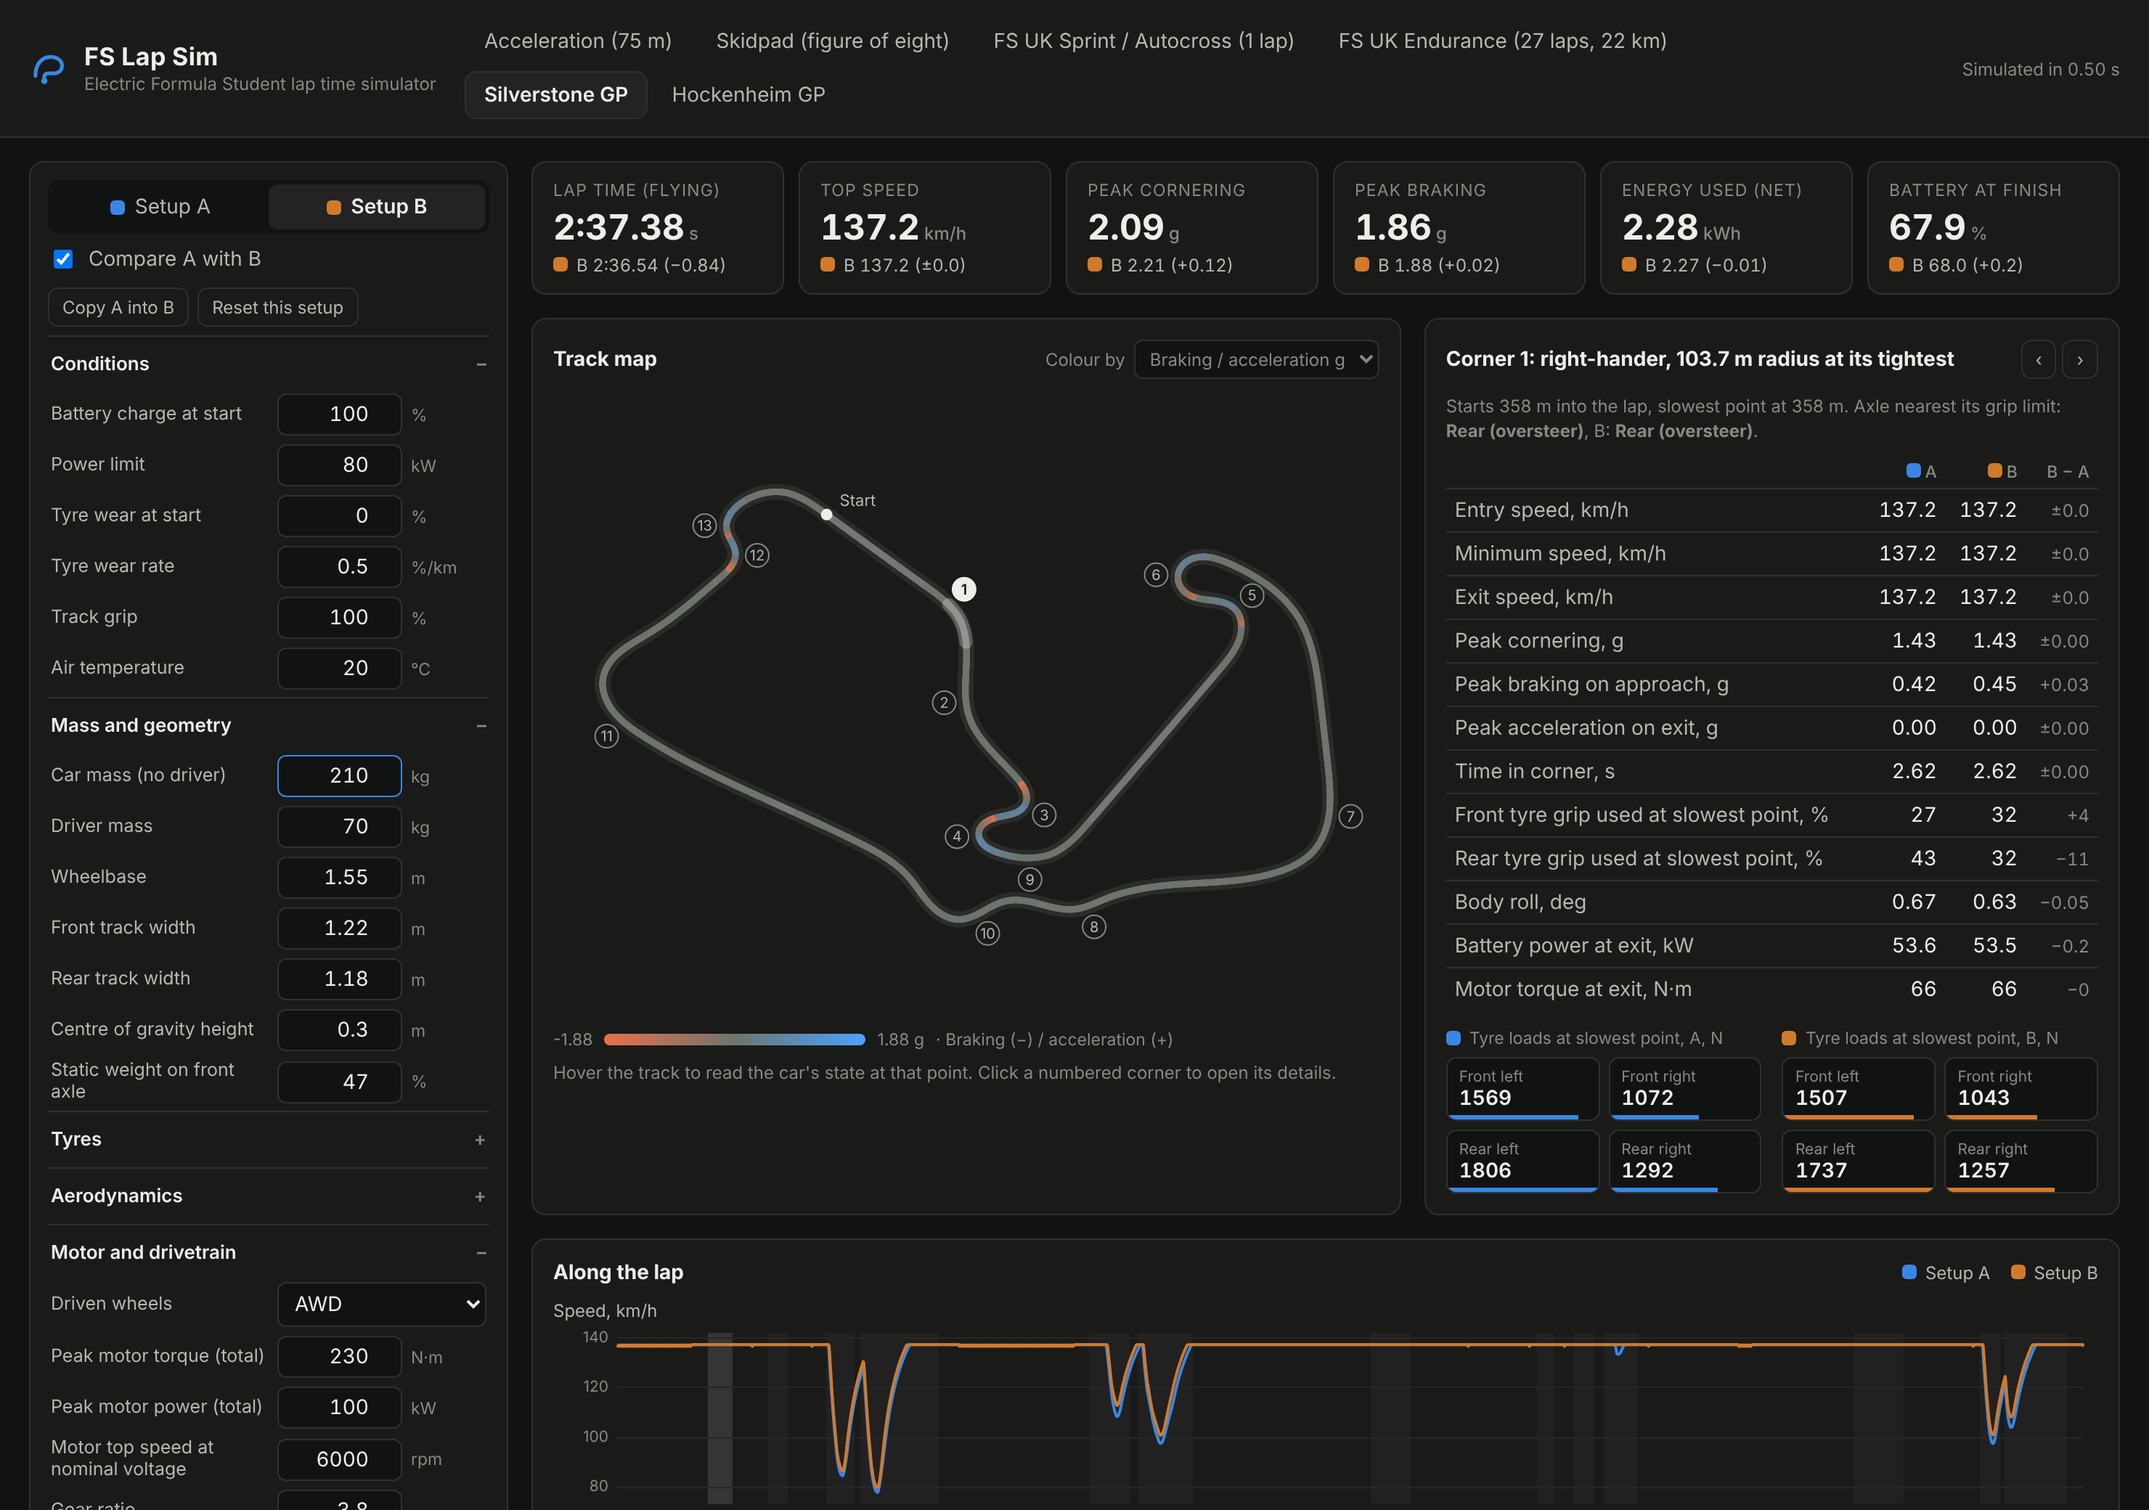
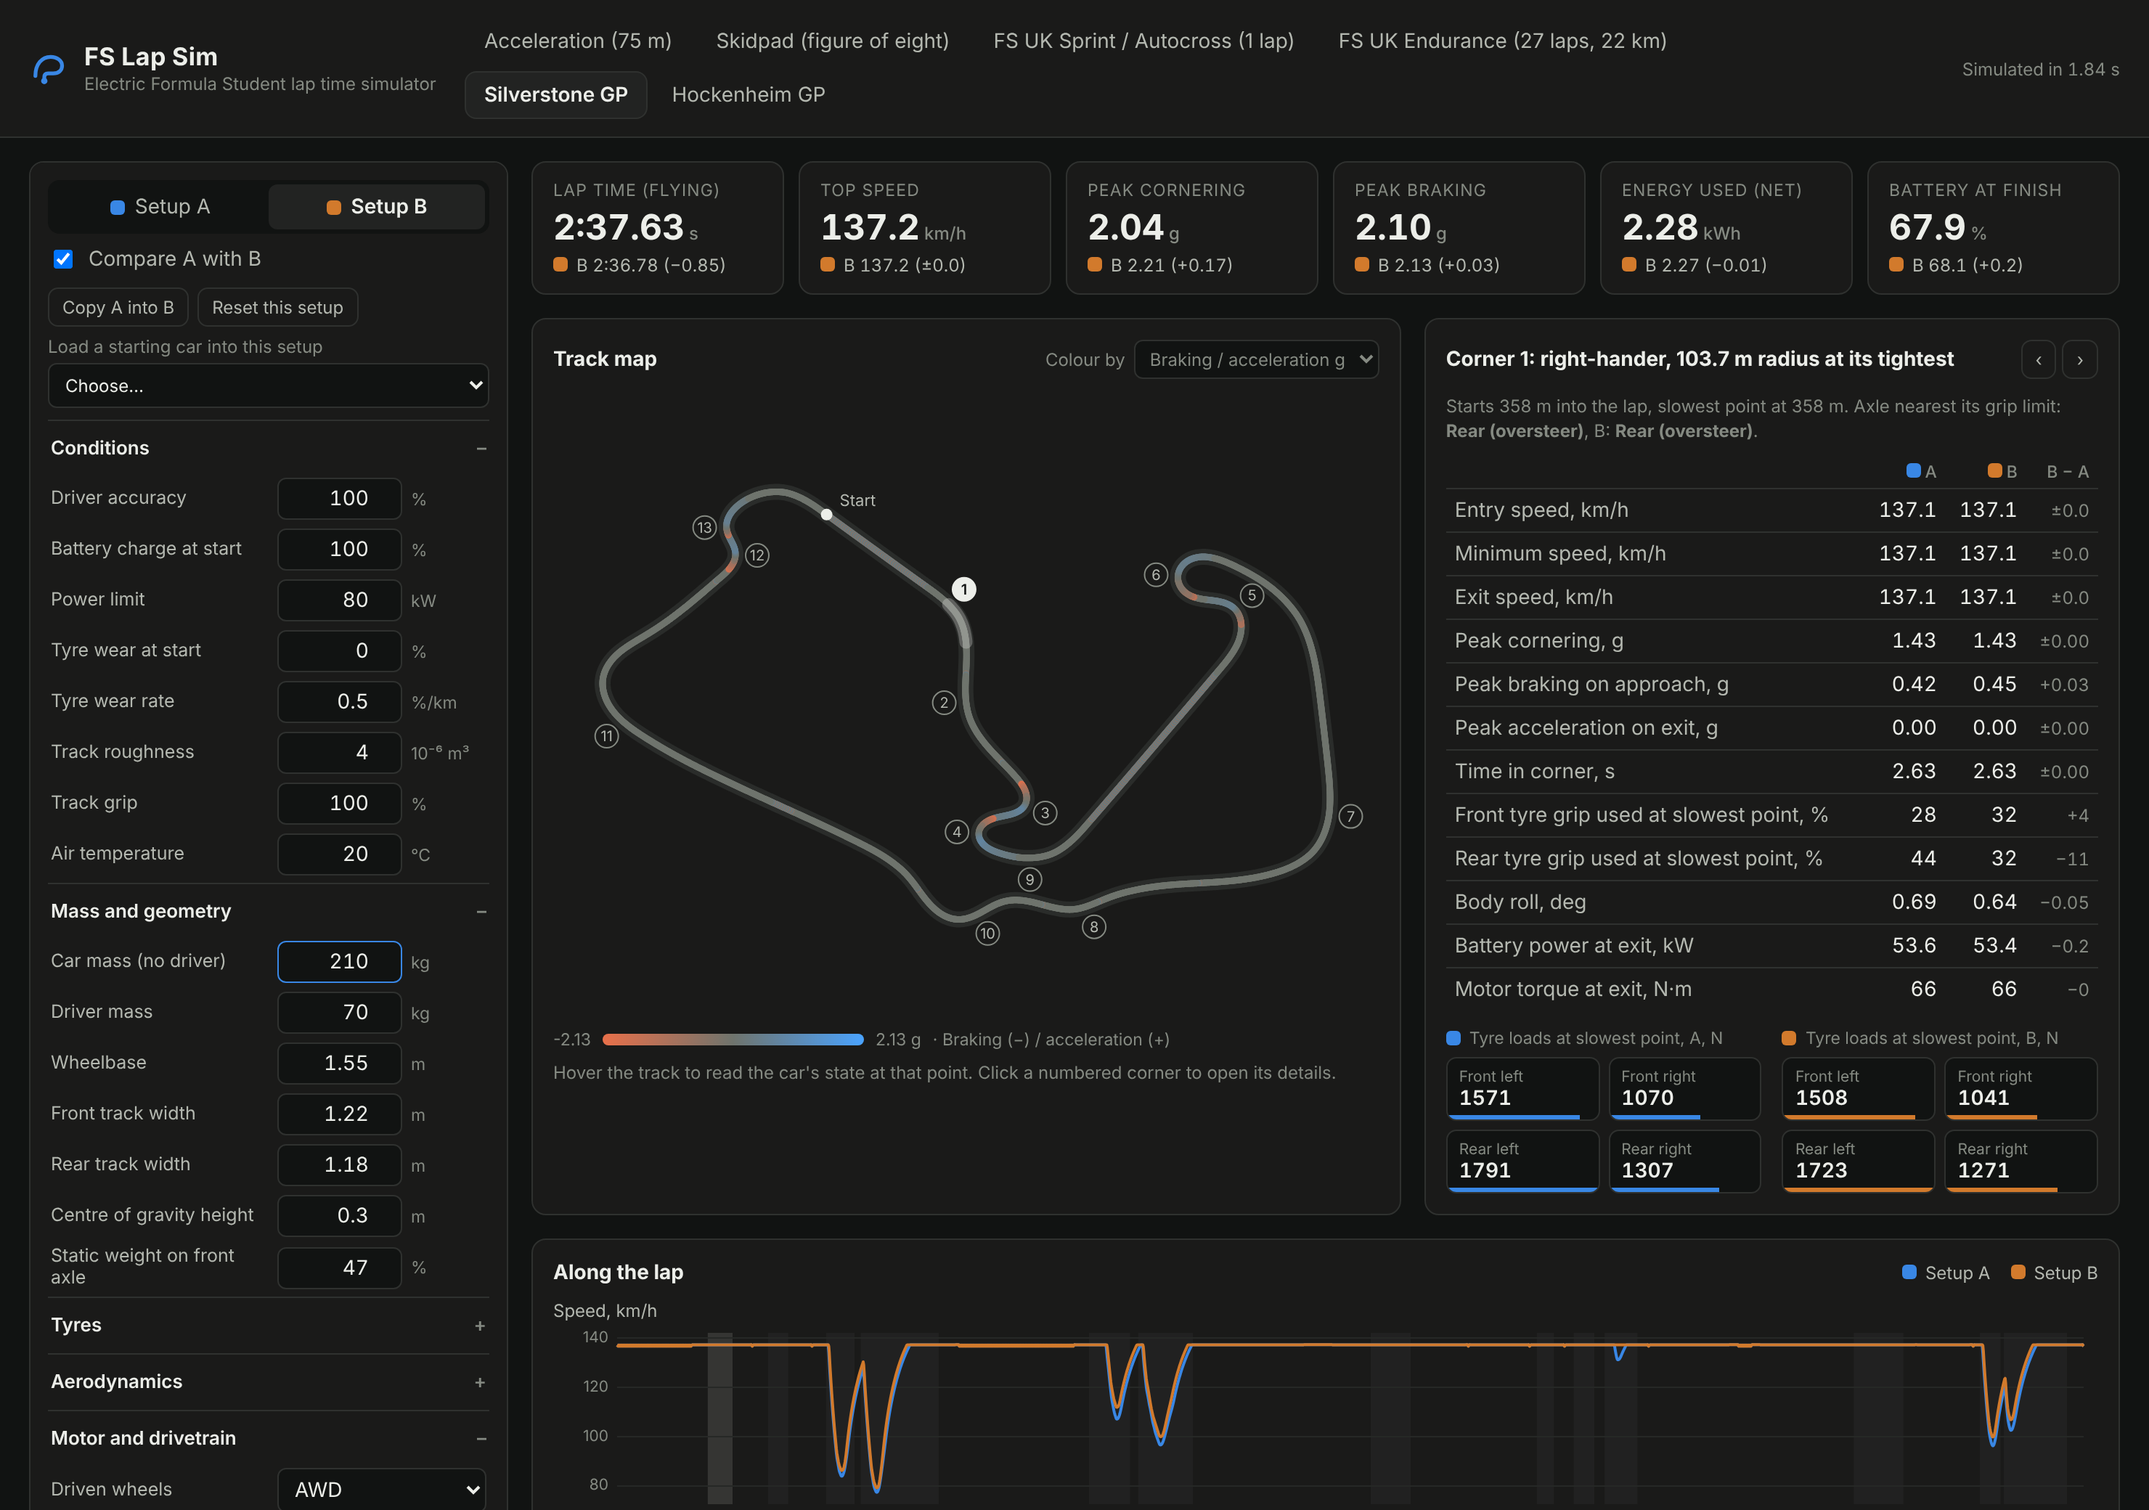
Add setup optimiser, Formula Student points calculator and README polish
The optimiser runs a coordinate search over gear ratio, wheel rates and
damper rates for the selected event and loads the result into Setup B.
The points calculator runs the four dynamic events and applies the FS Rules
2024 scoring structure. README gains screenshots and a live demo link; a
workflow runs the tests on every push.

Claude-Session: https://claude.ai/code/session_014WARP8tuEjPQfDCv9Myx8Z

diff --git a/web/app.js b/web/app.js
@@ -457,6 +457,9 @@ function onWorker(e) {
     $("preset").innerHTML = `<option value="">Choose…</option>` + m.schema.presets.map((p) => `<option value="${p.id}">${p.name}</option>`).join("");
     $("sources").innerHTML = m.tracks.map((t) => `<b>${t.name}:</b> ${t.source}`).join(" ");
     runNow();
+  } else if (asks[m.id]) {                 // a background run for the optimiser or points calculator
+    const f = asks[m.id]; delete asks[m.id];
+    m.type === "result" ? f.ok(m.result) : f.fail(new Error(m.message));
   } else if (m.type === "result") {
     const [batch, k] = m.id.split(":");
     if (+batch !== pending.batch) return;
@@ -467,6 +470,93 @@ function onWorker(e) {
       renderAll();
     }
   } else { st.classList.remove("busy"); st.textContent = "Error: " + m.message; console.error(m.message); }
+}
+
+// Background runs: returns a promise for one simulation, shared between the two engines.
+const asks = {};
+let askN = 0;
+function ask(track, setup) {
+  const id = `x:${++askN}`;
+  return new Promise((ok, fail) => { asks[id] = { ok, fail }; workers[askN % 2 ? "A" : "B"].postMessage({ id, req: { track, car: setup.car, cond: setup.cond } }); });
+}
+const clone = (o) => JSON.parse(JSON.stringify(o));
+const paramDef = (key) => state.schema.groups.car.flatMap((g) => g.params).find((p) => p.key === key);
+// What "better" means for an event: time, with a heavy penalty for not finishing endurance.
+const score = (r) => (r.finished ? r.time : r.time + 1e5 * (r.laps - r.laps_done + 1));
+
+// ---------- setup optimiser ----------
+const OPT_PARAMS = ["gear_ratio", "wheel_rate_f", "wheel_rate_r", "damper_f", "damper_r"];
+const OPT_MIN_GAIN = 0.03;      // s; smaller differences are within the solver's rounding
+async function optimise() {
+  const btn = $("optRun"), out = $("optOut"), track = state.trackId;
+  btn.disabled = true;
+  const setup = clone(state.setups.A), before = clone(setup.car);
+  let done = 0;
+  const total = 1 + OPT_PARAMS.length * 6;
+  const tick = () => { out.innerHTML = `<p class="sub">Trying setups: ${++done} of about ${total}…</p>`; };
+  const tryCar = async (key, val) => { const c = clone(setup); c.car[key] = val; const r = await ask(track, c); tick(); return [val, score(r)]; };
+  let best = score(await ask(track, setup)); tick();
+  const start = best, log = [];
+  for (const key of OPT_PARAMS) {
+    const d = paramDef(key), cur = setup.car[key];
+    const snap = (v) => +Math.min(d.max, Math.max(d.min, Math.round(v / d.step) * d.step)).toFixed(4);
+    // coarse: four values either side of the current one, then two finer ones near the best
+    const coarse = [...new Set([0.6, 0.8, 1.25, 1.6].map((m) => snap(cur * m)))].filter((v) => v !== cur);
+    let pts = [[cur, best]].concat(await Promise.all(coarse.map((v) => tryCar(key, v))));
+    pts.sort((a, b) => a[0] - b[0]);
+    let bi = pts.reduce((m, p, i) => (p[1] < pts[m][1] ? i : m), 0);
+    const fine = [pts[bi - 1], pts[bi + 1]].filter(Boolean).map((p) => snap((p[0] + pts[bi][0]) / 2)).filter((v) => !pts.some((p) => p[0] === v));
+    pts = pts.concat(await Promise.all(fine.map((v) => tryCar(key, v))));
+    done += 2 - fine.length + 4 - coarse.length;
+    const top = pts.reduce((m, p) => (p[1] < m[1] ? p : m), pts[0]);
+    if (top[1] < best - OPT_MIN_GAIN) { setup.car[key] = top[0]; log.push([d, cur, top[0], best - top[1]]); best = top[1]; }
+    else log.push([d, cur, cur, 0]);
+  }
+  const fin = (x) => (x > 1e5 ? "did not finish" : fmtTime(x) + " s");
+  out.innerHTML = `<table class="ctab"><thead><tr><th></th><th>Setup A</th><th>Suggested</th><th>Time gained, s</th></tr></thead><tbody>` +
+    log.map(([d, a, b, g]) => `<tr><td>${d.label}, ${d.unit}</td><td>${a}</td><td>${b === a ? "no change" : b}</td><td>${g ? fmt(g, 2) : "–"}</td></tr>`).join("") +
+    `<tr><td><b>${state.tracks[track].name}</b></td><td>${fin(start)}</td><td>${fin(best)}</td><td>${start - best > 0 && start < 1e5 ? fmt(start - best, 2) : "–"}</td></tr></tbody></table>` +
+    `<p class="hint">${best < start - OPT_MIN_GAIN ? "The suggested setup has been loaded into Setup B, so every panel now compares it with Setup A." : "Nothing beat Setup A by more than the solver's rounding of 0.03 s, so Setup A is already close to the best for this event."}</p>`;
+  if (best < start - OPT_MIN_GAIN && track === state.trackId) {
+    state.setups.B = { car: setup.car, cond: clone(state.setups.A.cond) };
+    state.compare = true; $("compare").checked = true; fillForm(); runNow();
+  }
+  btn.disabled = false;
+}
+
+// ---------- Formula Student points ----------
+// Structure of the FS Rules 2024 dynamic event scoring (max points from rules table 3):
+// most points scale with how close you are to the fastest car, a few are for finishing.
+const EVENTS = [
+  { id: "skidpad", track: "skidpad", name: "Skidpad", max: 50, tmaxK: 1.25, base: 0.05, f: (x) => (x * x - 1) / 0.5625, best: 4.9 },
+  { id: "accel", track: "accel", name: "Acceleration", max: 50, tmaxK: 1.5, base: 0.05, f: (x) => (x - 1) / 0.5, best: 3.5 },
+  { id: "autox", track: "fsuk_autocross", name: "Autocross (sprint)", max: 100, tmaxK: 1.25, base: 0.05, f: (x) => (x - 1) / 0.25, best: 51.3 },
+  { id: "endu", track: "fsuk_endurance", name: "Endurance", max: 250, tmaxK: 1.333, base: 0.1, f: (x) => (x - 1) / 0.333, best: 1430 },
+];
+function eventPoints(ev, t, best, finished) {
+  if (!finished) return 0;
+  const tmax = ev.tmaxK * best, tt = Math.min(Math.max(t, best), tmax);    // capped at the slowest scoring time
+  return ev.max * (ev.base + (1 - ev.base) * Math.min(1, ev.f(tmax / tt)));
+}
+let pointRuns = null;
+async function runPoints() {
+  const btn = $("ptsRun"); btn.disabled = true; $("ptsOut").innerHTML = `<p class="sub">Running all four events…</p>`;
+  const keys = state.compare ? ["A", "B"] : ["A"];
+  const res = await Promise.all(keys.flatMap((k) => EVENTS.map((ev) => ask(ev.track, state.setups[k]).then((r) => [k, ev.id, r]))));
+  pointRuns = {}; for (const [k, id, r] of res) (pointRuns[k] ||= {})[id] = r;
+  btn.disabled = false; drawPoints();
+}
+function drawPoints() {
+  if (!pointRuns) return;
+  const keys = Object.keys(pointRuns), tot = Object.fromEntries(keys.map((k) => [k, 0]));
+  let html = `<table class="ctab"><thead><tr><th></th><th>Fastest car in the field, s</th>${keys.map((k) => `<th><i class="sw ${k.toLowerCase()}"></i> ${k} time, s</th><th>${k} points</th>`).join("")}<th>Maximum</th></tr></thead><tbody>`;
+  for (const ev of EVENTS) {
+    html += `<tr><td>${ev.name}</td><td><input class="best" type="number" step="0.01" data-ev="${ev.id}" value="${ev.best}"></td>`;
+    for (const k of keys) { const r = pointRuns[k][ev.id], p = eventPoints(ev, r.time, ev.best, r.finished); tot[k] += p; html += `<td>${r.finished ? fmtTime(r.time) : "did not finish"}</td><td>${fmt(p, 1)}</td>`; }
+    html += `<td>${ev.max}</td></tr>`;
+  }
+  html += `<tr><td><b>Total</b></td><td></td>${keys.map((k) => `<td></td><td><b>${fmt(tot[k], 1)}</b></td>`).join("")}<td>450</td></tr></tbody></table>`;
+  $("ptsOut").innerHTML = html;
 }
 
 // ---------- form and tabs ----------
@@ -512,6 +602,9 @@ function wire() {
     $("presetNote").textContent = p.note; e.target.value = "";
     fillForm(); runNow();
   };
+  $("optRun").onclick = () => optimise().catch((err) => { $("optOut").textContent = "Optimiser stopped: " + err.message; $("optRun").disabled = false; });
+  $("ptsRun").onclick = () => runPoints().catch((err) => { $("ptsOut").textContent = "Could not calculate: " + err.message; $("ptsRun").disabled = false; });
+  $("ptsOut").addEventListener("change", (e) => { const ev = EVENTS.find((q) => q.id === e.target.dataset.ev); if (ev && +e.target.value > 0) { ev.best = +e.target.value; drawPoints(); } });
   $("tabA").onclick = () => { state.active = "A"; fillForm(); renderAll(); };
   $("tabB").onclick = () => { state.active = "B"; fillForm(); if (!state.compare) { state.compare = true; $("compare").checked = true; runNow(); } else renderAll(); };
   $("compare").onchange = (e) => { state.compare = e.target.checked; if (!state.compare) { state.active = "A"; fillForm(); } runNow(); };

diff --git a/index.html b/index.html
@@ -92,6 +92,18 @@
       </div>
     </div>
 
+    <div class="card">
+      <div class="card-head"><h2>Setup optimiser</h2><button id="optRun" class="primary">Find a faster setup for this event</button></div>
+      <p class="sub">Starts from Setup A and tries different gear ratios, front and rear spring rates, and front and rear damper rates, one at a time, keeping any change that gains more than 0.03 s on the selected event. It takes about half a minute, longer for endurance. The answer is for this event only: gearing that suits the 75 m sprint will not suit endurance.</p>
+      <div id="optOut"></div>
+    </div>
+
+    <div class="card">
+      <div class="card-head"><h2>Formula Student points</h2><button id="ptsRun" class="primary">Calculate points</button></div>
+      <p class="sub">Runs skidpad, acceleration, autocross and endurance with the current setup and scores them the way the competition does: most of each event's points depend on how close you are to the fastest car, and a few are for finishing. Type in the fastest times from a real results sheet; the figures shown first are placeholders. Efficiency (75 points) and the static events are not included.</p>
+      <div id="ptsOut"></div>
+    </div>
+
     <div class="card" id="valCard" hidden>
       <div class="card-head"><h2>Validation against logged data</h2><div id="valLegend" class="series-legend"></div></div>
       <p class="sub" id="valIntro"></p>
@@ -128,6 +140,8 @@
           <li>All-wheel drive assumes torque is shared between axles in proportion to available grip.</li>
           <li>Regen assumes the brake balance stays at the set bias, with regen replacing part of the friction braking on the driven axle. No regen below 5 km/h, as in the rules.</li>
           <li>Within one lap the battery limits are fixed at their start-of-lap values; charge is updated lap by lap.</li>
+          <li>The setup optimiser changes one input at a time (a coordinate search), so it can miss gains that need two inputs changed together. It ignores changes worth less than 0.03 s.</li>
+          <li>Points use the structure of the Formula Student Rules 2024 dynamic scoring (skidpad and acceleration 50 points each, autocross 100, endurance 250; slowest scoring time 1.25, 1.5, 1.25 and 1.333 times the fastest; 5% of the points for finishing, 10% in endurance). Check the current rulebook before relying on the exact figures. The autocross here uses the FS UK endurance layout.</li>
           <li>The track is flat. Hills and banking are ignored.</li>
           <li>Endurance ignores the driver change stop, which is not timed.</li>
         </ul>

diff --git a/web/style.css b/web/style.css
@@ -139,3 +139,7 @@ form details[open] summary::after { content: "–"; }
 #valCard .chart canvas { height: 170px; }
 .kpi .err { color: var(--ink2); }
 .sw.log { background: var(--ink2); }
+
+.primary { background: var(--accent); border: 0; border-radius: 7px; padding: 7px 12px; color: #fff; cursor: pointer; font-weight: 600; font-size: 12.5px; }
+.primary:disabled { opacity: .5; cursor: progress; }
+.ctab input.best { width: 90px; background: var(--bg); border: 1px solid var(--line); border-radius: 6px; padding: 4px 6px; text-align: right; font-variant-numeric: tabular-nums; }

diff --git a/README.md b/README.md
@@ -2,17 +2,24 @@
 
 An interactive lap time simulator for **electric Formula Student cars**. Enter the car's figures, pick an event, and see lap time, energy use and what the car is doing at every corner. Two setups can be compared side by side.
 
-![Preview](docs/preview.png)
+**Live demo:** https://divijdhingra.github.io/fs-lap-sim/
 
-![Validation against logged data](docs/validation.png)
+![Track map, corner details and setup comparison](docs/preview.png)
 
-![Suspension and dampers panel](docs/suspension.png)
+| | |
+| --- | --- |
+| ![Validation against logged data](docs/validation.png) | ![Suspension and dampers](docs/suspension.png) |
+| ![Setup optimiser and points calculator](docs/optimiser.png) | ![Silverstone GP coloured by braking and acceleration](docs/silverstone.png) |
 
 ## What it does
 
 - **Events:** 75 m acceleration, skidpad, an FS UK sprint lap, the 22 km FS UK endurance (with battery energy tracked lap by lap), and flying laps of the Silverstone and Hockenheim Grand Prix circuits.
 - **Car inputs:** mass, wheelbase, track widths, centre of gravity, tyre grip and load sensitivity, downforce and drag, motor torque/power/speed, gear ratio, driven wheels, battery capacity/voltage/resistance/current limit, regen, brake bias, spring rates, anti-roll bars and damper rates. The defaults are a typical mid-field electric FS car, not a specific team's car.
 - **Conditions:** driver accuracy, track roughness, battery charge, power limit, tyre wear, track grip (dry to wet) and air temperature.
+- **Suspension and dampers:** a time-based replay of body roll, pitch and heave, road bumps, damper speed histograms, and their effect on lap time.
+- **Setup optimiser:** searches gear ratio, spring rates and damper rates for the selected event and loads the result into Setup B.
+- **Points calculator:** runs the four dynamic events and scores them with the Formula Student formulas.
+- **Validation:** compares the simulation with a logged FS UK endurance lap, with error figures that update as you change the car.
 - **Per-corner view:** click a corner on the map for entry, minimum and exit speed, cornering and braking g, tyre loads, grip used on each axle, body roll, motor torque and battery power, for setup A and B.
 
 ## How it works
@@ -32,6 +39,7 @@ The lowest of those speeds at each point is the fastest possible lap for a perfe
 | `fslap/ride.py` | Time-based spring and damper replay: roll, pitch, heave, damper speeds |
 | `fslap/bumps.py` | Road bumps: quarter-car model and ISO 8608 road roughness |
 | `fslap/solver.py` | The lap solver, energy accounting and corner detection |
+| `tools/build_validation.py` | Builds `data/validation.json` from logged data |
 | `tools/build_tracks.py` | Builds `data/tracks.json` from rulebook dimensions, open racing lines and GPS |
 | `web/` and `index.html` | The page: track map, charts and tables |
 | `tests/` | Benchmark and sanity checks |
